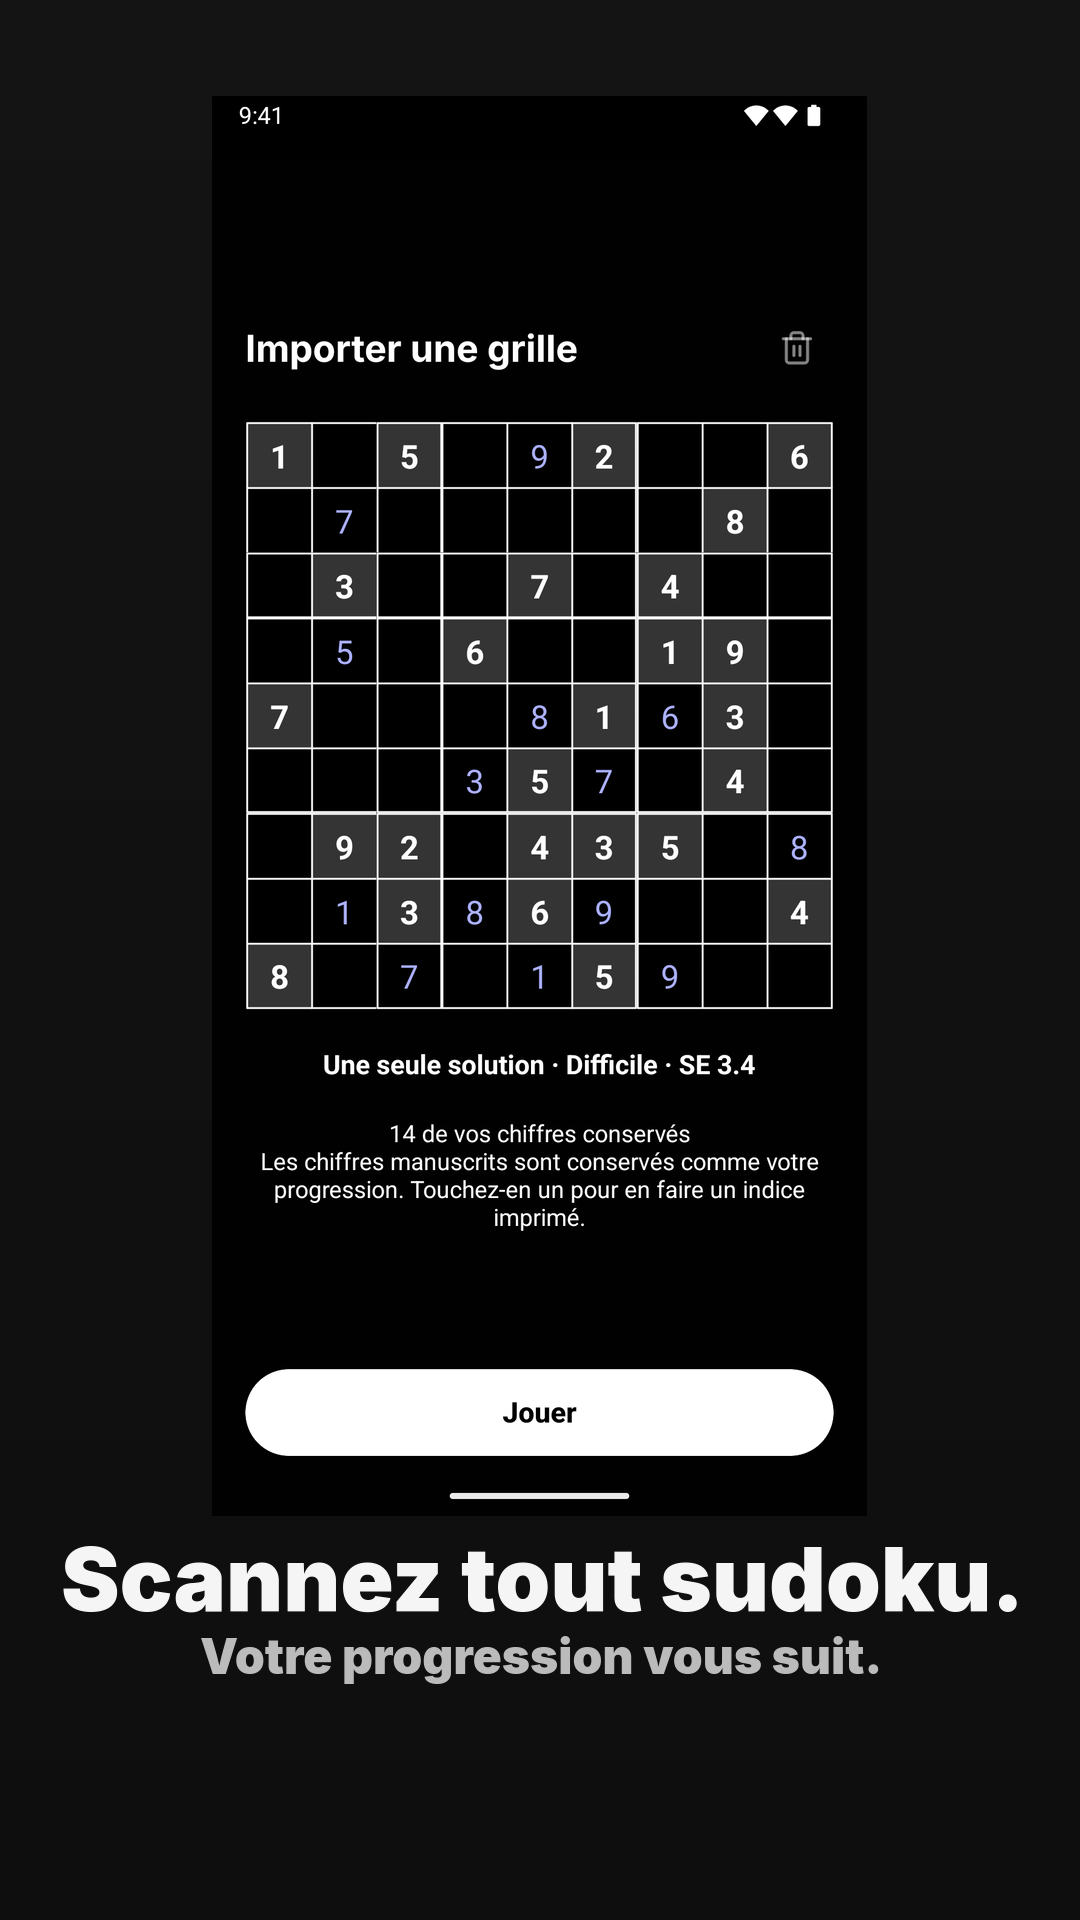
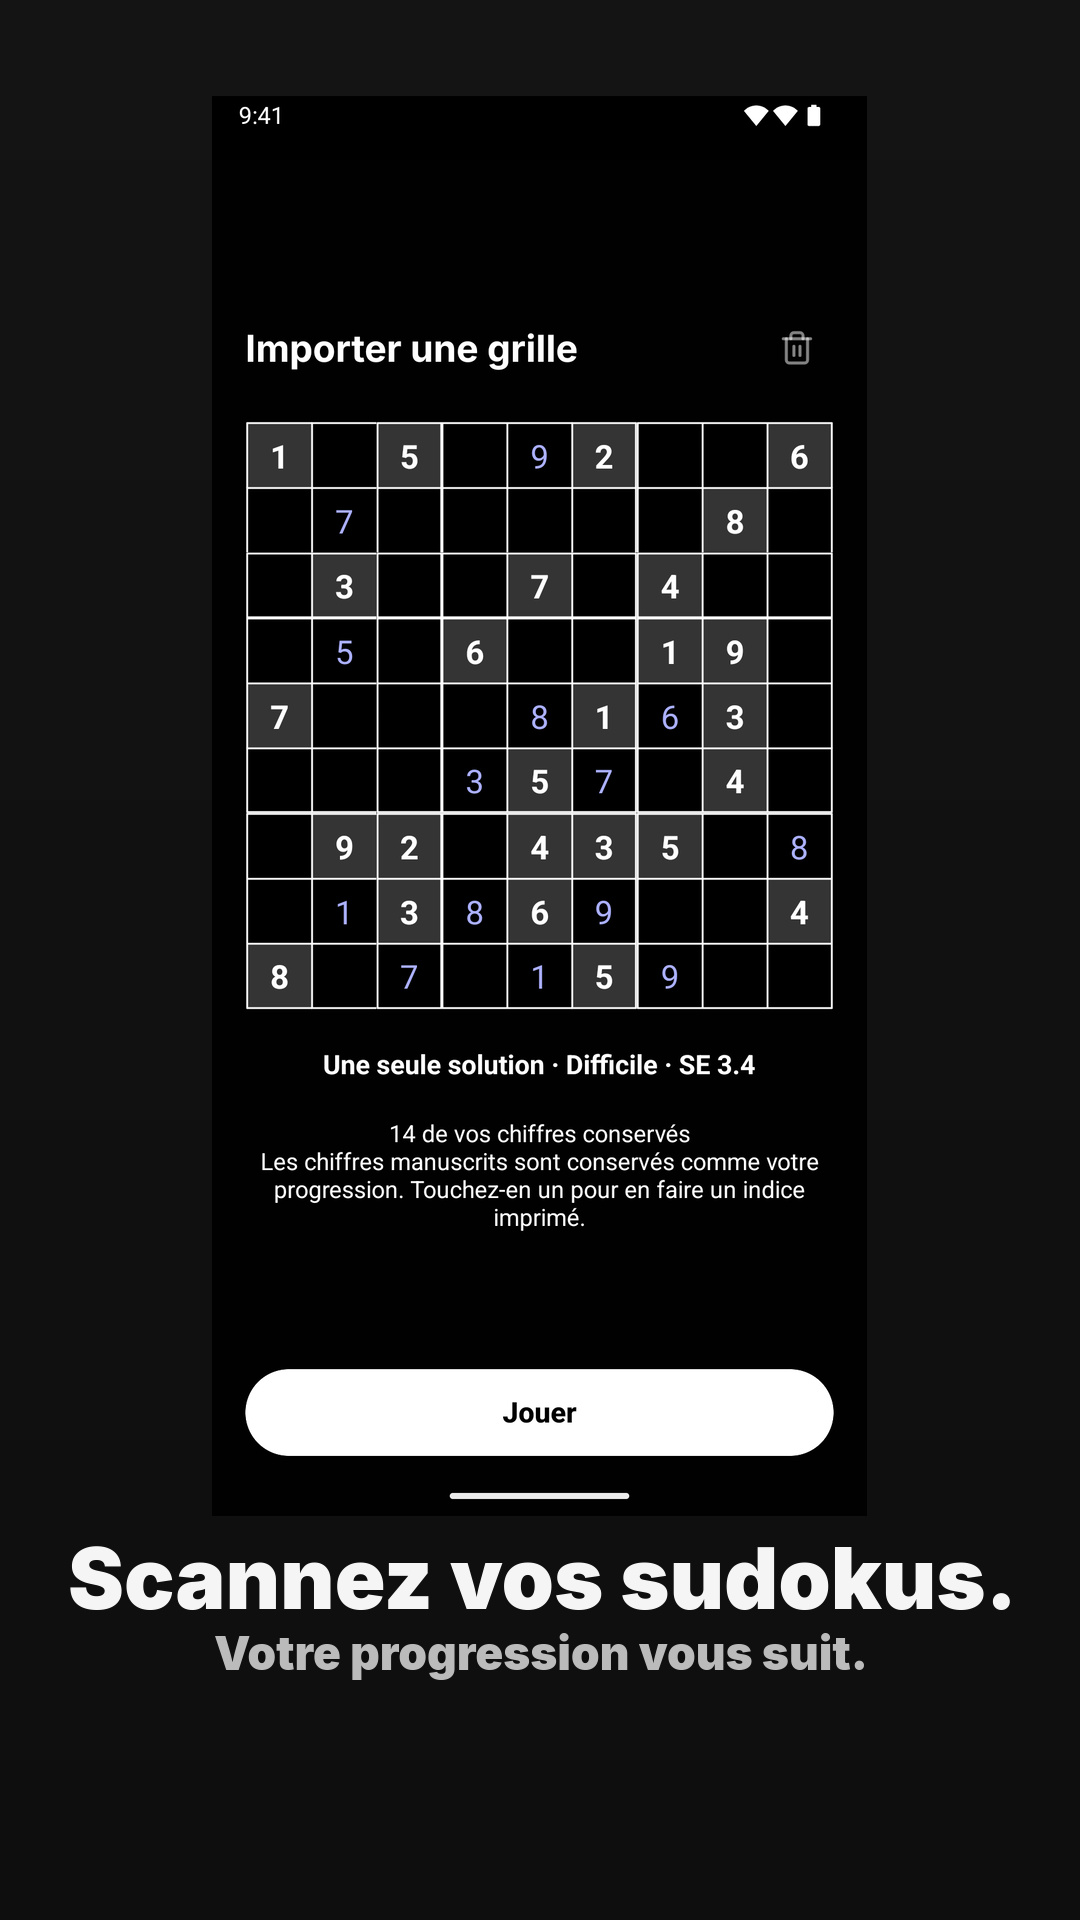
fix(app): correct the register and wording of the localized scan copy

Changed region(s): [[0.0611, 0.7812, 0.9472, 0.875]]

diff --git a/docs/store-custom-pages.md b/docs/store-custom-pages.md
@@ -12,11 +12,11 @@ Apple CPP keywords are **assignments from the latest approved app version**, not
 
 ## Page specifications
 
-**Expert puzzles** — internal names `cpp-expert` and `csl-expert`. Search intent: hard/expert Sudoku with a transparent difficulty scale and genuinely tough boards. Apple keyword candidates: `expert`, `logic`, `grid` (no other page uses these terms). Apple promotional text: “Choose Hard, Nightmare, Hell, or Infinity on Home. Puzzle difficulty uses Sudoku Explainer ratings.” iPhone first three: `02_iphone_hell.png`, `08_iphone_infinity.png`, `01_iphone_hero-board.png`; iPad: `22_ipad_hell.png`, `25_ipad_infinity.png`, `21_ipad_hero-board.png`. Play search targets: “expert sudoku”, “hard sudoku”, “hardest sudoku”; first three: `02_phone_hell.png`, `01_phone_hero-board.png`, `07_phone_stats.png`. Play short description: “Choose a hard Sudoku board and see its SE difficulty rating.” Replace the default full description's opening paragraph with: “Choose Hard, Nightmare, Hell, or Infinity on Home. Each puzzle shows its SE difficulty rating; Hell and Infinity offer the toughest grids.” Retain the default feature sections. Play targeting: keyword search terms only; keyword-targeted listings have no `listing` URL parameter.
+**Expert puzzles** — internal names `cpp-expert` and `csl-expert`. Search intent: hard/expert Sudoku with a transparent difficulty scale and genuinely tough boards. Apple keyword candidates: `expert`, `logic`, `grid` (no other page uses these terms). Apple promotional text: “Choose Hard, Nightmare, Hell, or Infinity on Home. Puzzle difficulty uses Sudoku Explainer ratings.” iPhone first three: `02_iphone_hell.png`, `09_iphone_infinity.png`, `01_iphone_hero-board.png`; iPad: `22_ipad_hell.png`, `25_ipad_infinity.png`, `21_ipad_hero-board.png`. Play search targets: “expert sudoku”, “hard sudoku”, “hardest sudoku”; first three: `02_phone_hell.png`, `01_phone_hero-board.png`, `07_phone_stats.png`. Play short description: “Choose a hard Sudoku board and see its SE difficulty rating.” Replace the default full description's opening paragraph with: “Choose Hard, Nightmare, Hell, or Infinity on Home. Each puzzle shows its SE difficulty rating; Hell and Infinity offer the toughest grids.” Retain the default feature sections. Play targeting: keyword search terms only; keyword-targeted listings have no `listing` URL parameter.
 
-**Quiet solving** — internal names `cpp-quiet` and `csl-quiet`. Search intent: a calm, offline Sudoku session with adjustable mistake limits and visual themes. Apple keyword candidate: `offline`. Do not assign “relaxing” until it exists in an approved base localization and is available for CPP selection. Apple promotional text: “Solve at your own pace, even offline. On Home, choose Relaxed for no mistake limit, then pick the board and theme that feel right.” iPhone first three: `09_iphone_hero-board-light.png`, `05_iphone_customization.png`, `01_iphone_hero-board.png`; iPad: `26_ipad_home.png`, `24_ipad_editor.png`, `21_ipad_hero-board.png`. Play search targets: “relaxing sudoku”, “offline sudoku”, “sudoku no mistake limit”; first three: `08_phone_hero-board-light.png`, `05_phone_customization.png`, `01_phone_hero-board.png`. Play short description: “Solve offline at your pace with Relaxed mistakes and custom themes.” Replace the default full description's opening paragraph with: “For a quieter Sudoku session, choose Relaxed on Home for no mistake limit. Play offline and adjust the board's look with built-in themes.” Retain the default feature sections. Play targeting: keyword search terms only; keyword-targeted listings have no `listing` URL parameter. The committed first three phone images show the board and theme controls; they do not depict the Relaxed selection, so the text must keep that choice explicit.
+**Quiet solving** — internal names `cpp-quiet` and `csl-quiet`. Search intent: a calm, offline Sudoku session with adjustable mistake limits and visual themes. Apple keyword candidate: `offline`. Do not assign “relaxing” until it exists in an approved base localization and is available for CPP selection. Apple promotional text: “Solve at your own pace, even offline. On Home, choose Relaxed for no mistake limit, then pick the board and theme that feel right.” iPhone first three: `10_iphone_hero-board-light.png`, `06_iphone_customization.png`, `01_iphone_hero-board.png`; iPad: `26_ipad_home.png`, `24_ipad_editor.png`, `21_ipad_hero-board.png`. Play search targets: “relaxing sudoku”, “offline sudoku”, “sudoku no mistake limit”; first three: `08_phone_hero-board-light.png`, `05_phone_customization.png`, `01_phone_hero-board.png`. Play short description: “Solve offline at your pace with Relaxed mistakes and custom themes.” Replace the default full description's opening paragraph with: “For a quieter Sudoku session, choose Relaxed on Home for no mistake limit. Play offline and adjust the board's look with built-in themes.” Retain the default feature sections. Play targeting: keyword search terms only; keyword-targeted listings have no `listing` URL parameter. The committed first three phone images show the board and theme controls; they do not depict the Relaxed selection, so the text must keep that choice explicit.
 
-**Technique-minded solving** — internal names `cpp-techniques` and `csl-techniques`. Search intent: practice harder Sudoku logic and review techniques used in completed games. Apple keyword candidates: `x-wing`, `explainer`, `replay`. Apple promotional text: “Work through tougher logic, then replay your finished puzzle move by move. See the techniques you used and the rating behind the challenge.” iPhone first three: `07_iphone_stats.png`, `06_iphone_replay.png`, `02_iphone_hell.png`; iPad: keep the default screenshot order (the committed set has no technique, stats or replay shot). Play search targets: “sudoku x wing”, “sudoku techniques”, “sudoku replay”; first three: `07_phone_stats.png`, `06_phone_replay.png`, `02_phone_hell.png`. Play short description: “Replay finished boards and review the techniques behind your solve.” Replace the default full description's opening paragraph with: “Solve at the difficulty you choose, then replay each completed board move by move. Your history summarizes the techniques used, including advanced patterns.” Retain the default feature sections. Play targeting: keyword search terms only; keyword-targeted listings have no `listing` URL parameter. A new player lands on Home; history and replay need a completed puzzle, so this page does not promise an instant technique lesson.
+**Technique-minded solving** — internal names `cpp-techniques` and `csl-techniques`. Search intent: practice harder Sudoku logic and review techniques used in completed games. Apple keyword candidates: `x-wing`, `explainer`, `replay`. Apple promotional text: “Work through tougher logic, then replay your finished puzzle move by move. See the techniques you used and the rating behind the challenge.” iPhone first three: `08_iphone_stats.png`, `07_iphone_replay.png`, `02_iphone_hell.png`; iPad: keep the default screenshot order (the committed set has no technique, stats or replay shot). Play search targets: “sudoku x wing”, “sudoku techniques”, “sudoku replay”; first three: `07_phone_stats.png`, `06_phone_replay.png`, `02_phone_hell.png`. Play short description: “Replay finished boards and review the techniques behind your solve.” Replace the default full description's opening paragraph with: “Solve at the difficulty you choose, then replay each completed board move by move. Your history summarizes the techniques used, including advanced patterns.” Retain the default feature sections. Play targeting: keyword search terms only; keyword-targeted listings have no `listing` URL parameter. A new player lands on Home; history and replay need a completed puzzle, so this page does not promise an instant technique lesson.
 
 Keep the existing app name, icon, default Play title, and other listing sections. The Play short descriptions above are under 80 characters and avoid ranking, health, speed, and outcome claims. The copy describes actual app controls and existing images. There is no Killer Sudoku variant, and “brain training” is omitted because the current product evidence supports logic play, not a cognitive benefit claim. If Google offers a Gemini description draft in the search-keyword workflow, compare it with this spec and Play metadata policy before use. [Play custom listing guide](https://support.google.com/googleplay/android-developer/answer/9867158) · [Play metadata policy](https://support.google.com/googleplay/android-developer/answer/9898842).
 

diff --git a/packages/app/fastlane/README.md b/packages/app/fastlane/README.md
@@ -373,7 +373,7 @@ and the 1024×1024 board sits at x=2240, y=384. Search artwork covers all
 twelve App Store locales. Captions use Inter and script-specific Noto fonts,
 with right-to-left shaping where needed.
 
-Play feature graphics use committed localized `07_iphone_stats.png`
+Play feature graphics use committed localized `08_iphone_stats.png`
 screenshots as their source, showing actual technique and progress stats
 instead of a generic board. For bn-BD and ur, use the committed localized
 `07_phone_stats.png` Play phone screenshots. The English proof crop is
@@ -386,7 +386,7 @@ search hint is a fresh authentic RTL capture.
 The event artwork is a reusable Infinity template: a native vector off-white
 ∞ over a flat near-black background, with the authentic Infinity board at
 24% opacity and clipped inside the symbol. The English source is
-`08_iphone_infinity.png`, cropped at 920×920 from x=200, y=626. Keep the
+`09_iphone_infinity.png`, cropped at 920×920 from x=200, y=626. Keep the
 artwork free of baked-in event names, text, logos, and heavy red accents.
 “Infinity Challenge” appears only in a review mockup; no qualifying event
 has been identified, and it is not a real event name or a promised release.
